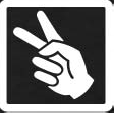
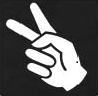
update shifumi

diff --git a/TD - Activité/06 - Shifumi/style.css b/TD - Activité/06 - Shifumi/style.css
@@ -19,6 +19,10 @@ h1, p, h3 {
     color: white;
 }
 
+img {
+    border-radius: 6px;
+}
+
 header {
     border-bottom: 5px solid white;
     height: 90px;
@@ -59,8 +63,8 @@ main {
 }
 
 .haut-game, .bas-game {
-    border: 5px solid white;
-    height: 300px;
+    border: 6px solid white;
+    height: 320px;
     width: 900px;
     margin-top: 40px;
     display: flex;
@@ -70,16 +74,16 @@ main {
 
 
 .gamer {
-    border: 5px solid white;
-    height: 250px;
+    border: 6px solid white;
+    height: 270px;
     width: 250px;
 }
 
 
 
 .match {
-    border: 5px solid white;
-    height: 250px;
+    border: 6px solid white;
+    height: 270px;
     width: 250px;
 }
 
@@ -89,8 +93,8 @@ main {
 }
 
 .robot {
-    border: 5px solid white;
-    height: 250px;
+    border: 6px solid white;
+    height: 270px;
     width: 250px;
 }
 
@@ -113,33 +117,37 @@ main {
     height: 215px;
 }
 
+.choix-gamer > img {
+    width: 100%;
+}
+
 .bas-game > div > img {
     width: 100%;
 }
 
 .pierre {
-    border: 5px solid white;
+    border: 6px solid white;
     height: 250px;
     width: 250px;
     border-radius: 20px;
 }
 
 .feuille {
-    border: 5px solid white;
+    border: 6px solid white;
     height: 250px;
     width: 250px;
     border-radius: 20px;
 }
 
 .ciseaux {
-    border: 5px solid white;
+    border: 6px solid white;
     height: 250px;
     width: 250px;
     border-radius: 20px;
 }
 
 .reset {
-    border: 3px solid white;
+    text-align: center;
     margin-bottom: 20px;
     margin-top: 20px;
     animation-name: taille;

diff --git a/TD - Activité/06 - Shifumi/index.html b/TD - Activité/06 - Shifumi/index.html
@@ -9,6 +9,7 @@
 </head>
 <body onload="quandMaPageEstCharge()">
     <header>
+        <h1 id="result">Résultat !</h1>
         <h1 class="titre">SHI-FUN-ME !!</h1>
     </header>
     <main>
@@ -46,7 +47,7 @@
                     </div><div class="cercle"></div><div class="cercle"></div>
                 </div>
                 <div class="choix-gamer">
-                    <img src="image/question.png" alt="">
+                    <img src="image/question.png" alt="" id="img-robot">
                 </div>
             </div>
 
@@ -57,22 +58,22 @@
             
 
                 <div class="pierre" id="img-pierre">
-                <img src="image/pierre.png" alt="" srcset="" onclick="pierre()">
+                <img src="image/pierre.png" alt="pierre" onclick="pierre()">
                 </div>
 
                 <div class="feuille" id="img-feuille">
-                <img src="image/feuille.png" alt="" onclick="feuille()">
+                <img src="image/feuille.png" alt="feuille" onclick="feuille()">
                 </div>
 
                 <div class="ciseaux" id="img-ciseaux">
-                <img src="image/ciseaux.png" alt="" srcset="" onclick="ciseaux()">
+                <img src="image/ciseaux.png" alt="ciseaux" onclick="ciseaux()">
                 </div>
 
            
 
         </section>
 
-        <div class="reset">lain
+        <div class="reset" onclick="reload()">lain
             <button>RESET</button>
         </div>
 

diff --git a/TD - Activité/06 - Shifumi/script/script.js b/TD - Activité/06 - Shifumi/script/script.js
@@ -1,11 +1,19 @@
 
 function quandMaPageEstCharge() {
+
+    //Recharger la page
+    function reload(){
+	location.reload();
+    };
+
+    //choix nom
     let nameEnter = window.prompt('Entrer votre nom');
     console.log(nameEnter);
     document.getElementById("nomJoueur").innerText = nameEnter;
 
-    const pierre = document.getElementById("img-pierre") = document.getElementById("img-gamer");
-    const feuille = document.getElementById("img-feuille") = document.getElementById("img-gamer");
-    const ciseaux = document.getElementById("img-ciseaux") = document.getElementById("img-gamer");
+    //choix pierre, feuille, ciseaux
+    const pierre = document.getElementById('img-gamer').src='image/pierre.png';
+    const feuille = document.getElementById('img-gamer').src='image/feuille.png';
+    const ciseaux = document.getElementById('img-gamer').src='image/ciseaux.png';
     
-};
+}
